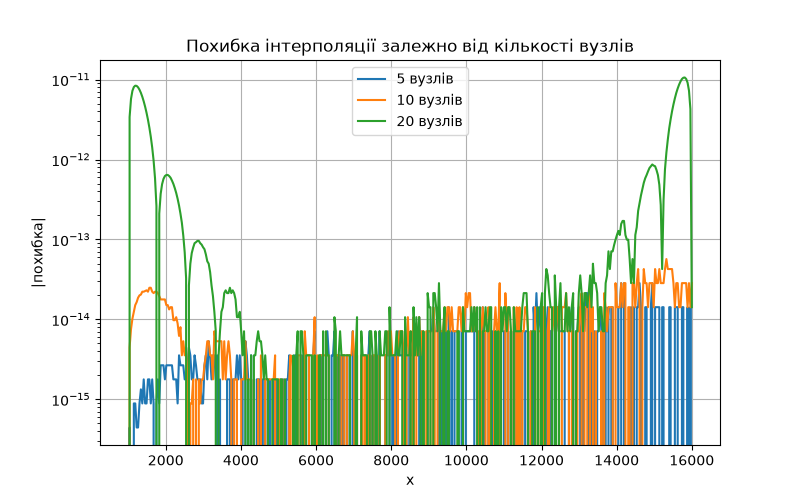
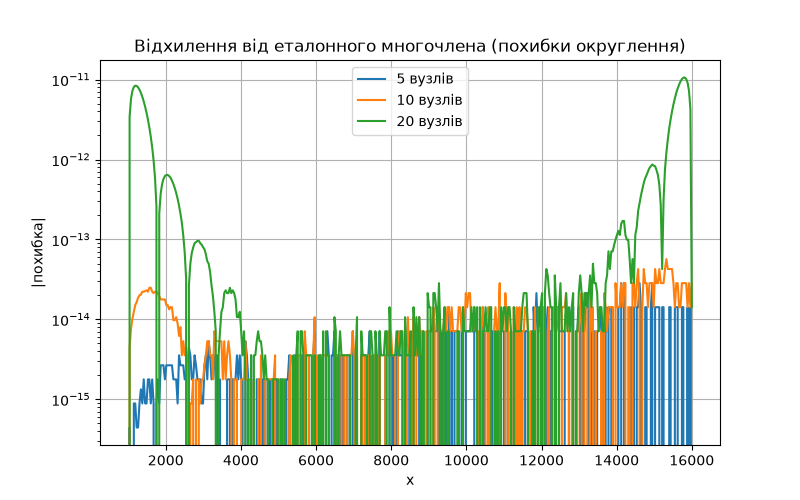
Lab2: update main.py and plots

Changed region(s): [[0.1562, 0.06, 0.8438, 0.12]]

diff --git a/lab2/main.py b/lab2/main.py
@@ -1,5 +1,5 @@
 import csv
-from math import factorial
+from math import factorial, log2
 
 import numpy as np
 import matplotlib.pyplot as plt
@@ -114,15 +114,18 @@ def factorial_poly(x0, h, fd_table, x_val):
     return result
 
 
-# факторіальні многочлени працюють на рівновіддалених вузлах,
-# тому будуємо рівномірну сітку на [x0, xn] за допомогою многочлена Ньютона
-n_uzl = len(x) - 1
-h = (x[-1] - x[0]) / n_uzl
-x_equal = [x[0] + i * h for i in range(n_uzl + 1)]
-y_equal = [newton_poly(x, table, xv) for xv in x_equal]
+# факторіальні многочлени працюють на рівновіддалених вузлах.
+# Вузли 1000, 2000, 4000, 8000, 16000 кожен раз подвоюються, тому в змінній
+# t = log2(n / x0) вони рівновіддалені: t = 0, 1, 2, 3, 4 з кроком h = 1
+t_nodes = [log2(xv / x[0]) for xv in x]
+print("\nВузли у змінній t = log2(n/1000):", t_nodes)
 
-fd_table = finite_diff_table(y_equal)
-pred_factorial = factorial_poly(x_equal[0], h, fd_table, 6000)
+fd_table = finite_diff_table(y)
+print("Скінченні різниці:", [fd_table[0][k] for k in range(len(y))])
+
+t_val = log2(6000 / x[0])
+pred_factorial = factorial_poly(0.0, 1.0, fd_table, t_val)
+print(f"t(6000) = log2(6) = {t_val:.4f}")
 print(f"Прогноз факторіальним многочленом при n=6000: {pred_factorial:.4f} мс")
 
 
@@ -152,6 +155,19 @@ for n_nodes in [5, 10, 20]:
     pred = newton_poly(x_sub, table_sub, 6000)
     print(f"n_nodes={n_nodes}: прогноз при x=6000 = {pred:.4f}")
 
+# точність прогнозу на реальних даних: додаємо вузли, найближчі до 6000
+order = sorted(range(len(x)), key=lambda i: abs(x[i] - 6000))
+print("\nПрогноз при додаванні реальних вузлів (найближчих до 6000):")
+prev = None
+for k in range(2, len(x) + 1):
+    idx = sorted(order[:k])
+    xs = [x[i] for i in idx]
+    ys = [y[i] for i in idx]
+    p = newton_poly(xs, divided_diff_table(xs, ys), 6000)
+    diff = "" if prev is None else f", зміна = {abs(p - prev):.4f}"
+    print(f"{k} вузли {[int(v) for v in xs]}: N(6000) = {p:.4f}{diff}")
+    prev = p
+
 x_dense = np.linspace(min(x), max(x), 400)
 f_reference = np.array([newton_poly(x, table, xv) for xv in x_dense])
 
@@ -167,7 +183,7 @@ for n_nodes in [5, 10, 20]:
 
 plt.xlabel('x')
 plt.ylabel('|похибка|')
-plt.title('Похибка інтерполяції залежно від кількості вузлів')
+plt.title('Відхилення від еталонного многочлена (похибки округлення)')
 plt.legend()
 plt.grid(True)
 plt.yscale('log')
@@ -231,66 +247,84 @@ plt.show()
 node_counts = [5, 10, 20]
 
 # ---- 1. Вплив кроку: фіксований інтервал, різна кількість вузлів ----
-x_dense = np.linspace(a, b, 400)
-f_reference = np.array([runge_test_func(xv, a, b) for xv in x_dense])
-
 print()
 plt.figure(figsize=(8, 5))
 results_step = []
 for n_nodes in node_counts:
-    x_sub = list(np.linspace(a, b, n_nodes))
+    h = (b - a) / (n_nodes - 1)                          # крок між вузлами
+    x_sub = [a + k * h for k in range(n_nodes)]          # вузли: x_k = a + k*h
     y_sub = [runge_test_func(xv, a, b) for xv in x_sub]
     table_sub = divided_diff_table(x_sub, y_sub)
 
-    y_interp = np.array([newton_poly(x_sub, table_sub, xv) for xv in x_dense])
-    err = np.abs(y_interp - f_reference)
+    h_tab = h / 20                                       # крок табуляції
+    x_tab_r = [a + i * h_tab for i in range(20 * (n_nodes - 1) + 1)]   # x_i = a + i*h_tab
+    err = np.array([abs(newton_poly(x_sub, table_sub, xv) - runge_test_func(xv, a, b))
+                    for xv in x_tab_r])
     max_err = err.max()
-    results_step.append((n_nodes, max_err))
-    print(f"n_nodes={n_nodes}: крок h={(b - a) / (n_nodes - 1):.2f}, макс. похибка={max_err:.6e}")
+    results_step.append((n_nodes, h, max_err))
+    print(f"n_nodes={n_nodes}: крок h={h:.2f}, макс. похибка={max_err:.6e}")
 
-    plt.plot(x_dense, err, label=f'{n_nodes} вузлів')
+    plt.plot(x_tab_r, err, label=f'{n_nodes} вузлів, h={h:.0f}')
 
 plt.xlabel('x')
-plt.ylabel('|похибка|')
-plt.yscale('log')
-plt.title('Вплив кроку h на точність (фіксований інтервал)')
-plt.legend()
+plt.ylabel('|f(x) − N(x)|')
+plt.title('Похибка інтерполяції при різному кроці h (фіксований інтервал)')
+plt.legend(loc='upper center')
 plt.grid(True)
 plt.savefig('error_step_influence.png')
 plt.show()
 
+# залежність максимальної похибки від кроку h
+plt.figure(figsize=(8, 5))
+plt.plot([r[1] for r in results_step], [r[2] for r in results_step], 'bo-')
+for n_nodes, h, max_err in results_step:
+    plt.annotate(f'{n_nodes} вузлів', (h, max_err), textcoords='offset points', xytext=(5, 5))
+plt.xlabel('крок h')
+plt.ylabel('максимальна похибка')
+plt.yscale('log')
+plt.title('Залежність максимальної похибки від кроку h')
+plt.grid(True)
+plt.savefig('max_error_vs_step.png')
+plt.show()
+
 # ---- 2. Вплив кількості вузлів: фіксований крок, змінний інтервал ----
+# функція Рунге залишається заданою на [a, b] = [1000, 16000],
+# змінюється лише ділянка [a, b_var], яку покривають вузли
 h_fixed = (b - a) / 20.0   # фіксований крок
 print(f"\nФіксований крок h = {h_fixed:.3f}")
 
 plt.figure(figsize=(8, 5))
 results_interval = []
 for n_nodes in node_counts:
-    b_var = a + h_fixed * (n_nodes - 1)                  # останній вузол при кроці h
-    x_sub = [a + i * h_fixed for i in range(n_nodes)]    # вузли з точно фіксованим кроком
-    y_sub = [runge_test_func(xv, a, b_var) for xv in x_sub]
+    b_var = a + h_fixed * (n_nodes - 1)                  # b = a + h*(n-1)
+    x_sub = [a + k * h_fixed for k in range(n_nodes)]    # вузли: x_k = a + k*h
+    y_sub = [runge_test_func(xv, a, b) for xv in x_sub]  # функція та сама, на [a, b]
     table_sub = divided_diff_table(x_sub, y_sub)
 
-    x_dense_var = np.linspace(a, b_var, 300)
-    f_ref_var = np.array([runge_test_func(xv, a, b_var) for xv in x_dense_var])
-    y_interp_var = np.array([newton_poly(x_sub, table_sub, xv) for xv in x_dense_var])
-    err_var = np.abs(y_interp_var - f_ref_var)
+    h_tab = h_fixed / 20
+    x_tab_r = [a + i * h_tab for i in range(20 * (n_nodes - 1) + 1)]
+    err_var = np.array([abs(newton_poly(x_sub, table_sub, xv) - runge_test_func(xv, a, b))
+                        for xv in x_tab_r])
     max_err = err_var.max()
     results_interval.append((n_nodes, b_var, max_err))
     print(f"n_nodes={n_nodes}: інтервал=[{a:.0f}, {b_var:.0f}], макс. похибка={max_err:.6e}")
 
-    plt.plot(x_dense_var, err_var, label=f'{n_nodes} вузлів, b={b_var:.0f}')
+    plt.plot(x_tab_r, err_var, label=f'{n_nodes} вузлів, b={b_var:.0f}')
 
 plt.xlabel('x')
-plt.ylabel('|похибка|')
+plt.ylabel('|f(x) − N(x)|')
 plt.yscale('log')
-plt.title('Вплив розширення інтервалу на точність (фіксований крок)')
-plt.legend()
+plt.title('Похибка інтерполяції при фіксованому кроці h = 750')
+plt.legend(loc='upper left')
 plt.grid(True)
 plt.savefig('error_interval_influence.png')
 plt.show()
 
 # ---- 3. Аналіз ефекту Рунге ----
 print("\nАналіз ефекту Рунге:")
-for n_nodes, max_err in results_step:
-    print(f"  n={n_nodes:3d}  максимальна похибка = {max_err:.6e}")
+print("  фіксований інтервал:")
+for n_nodes, h, max_err in results_step:
+    print(f"    n={n_nodes:3d}  h={h:.2f}  максимальна похибка = {max_err:.6e}")
+print("  фіксований крок:")
+for n_nodes, b_var, max_err in results_interval:
+    print(f"    n={n_nodes:3d}  b={b_var:.0f}  максимальна похибка = {max_err:.6e}")
